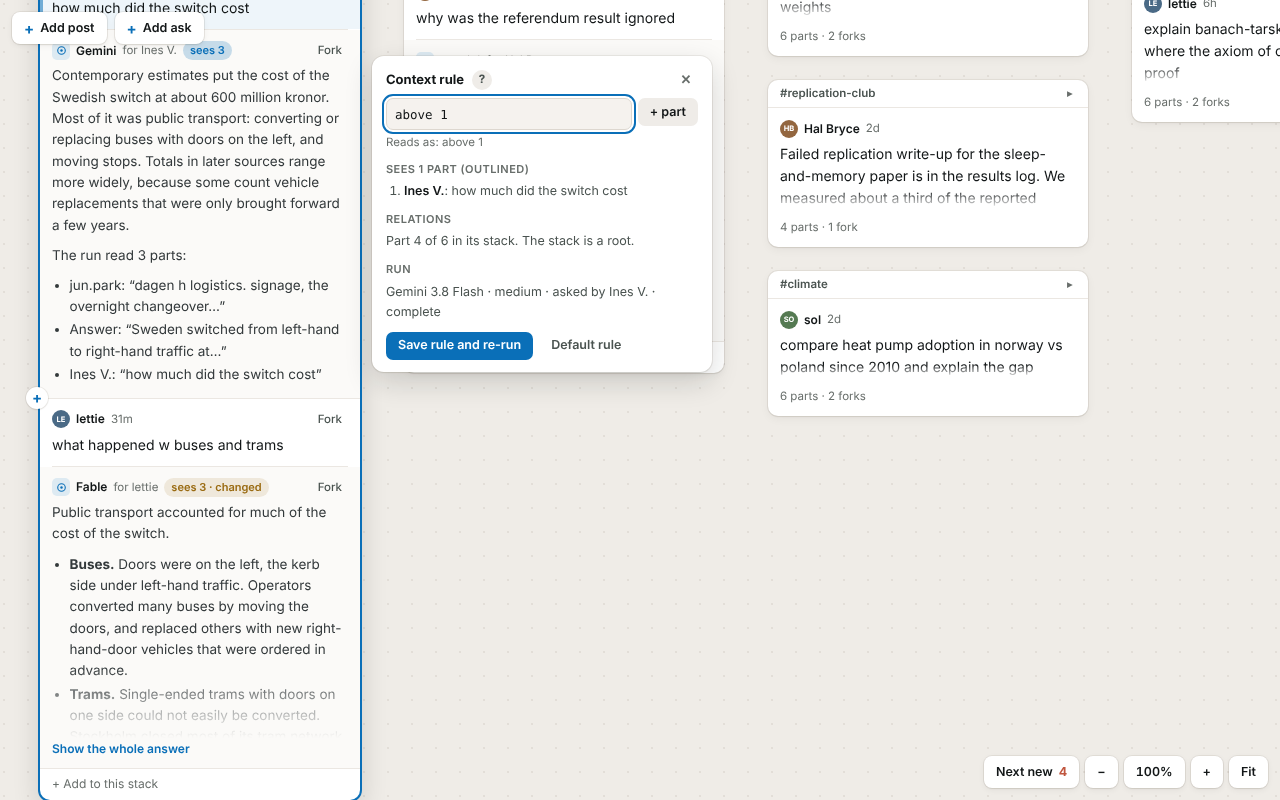
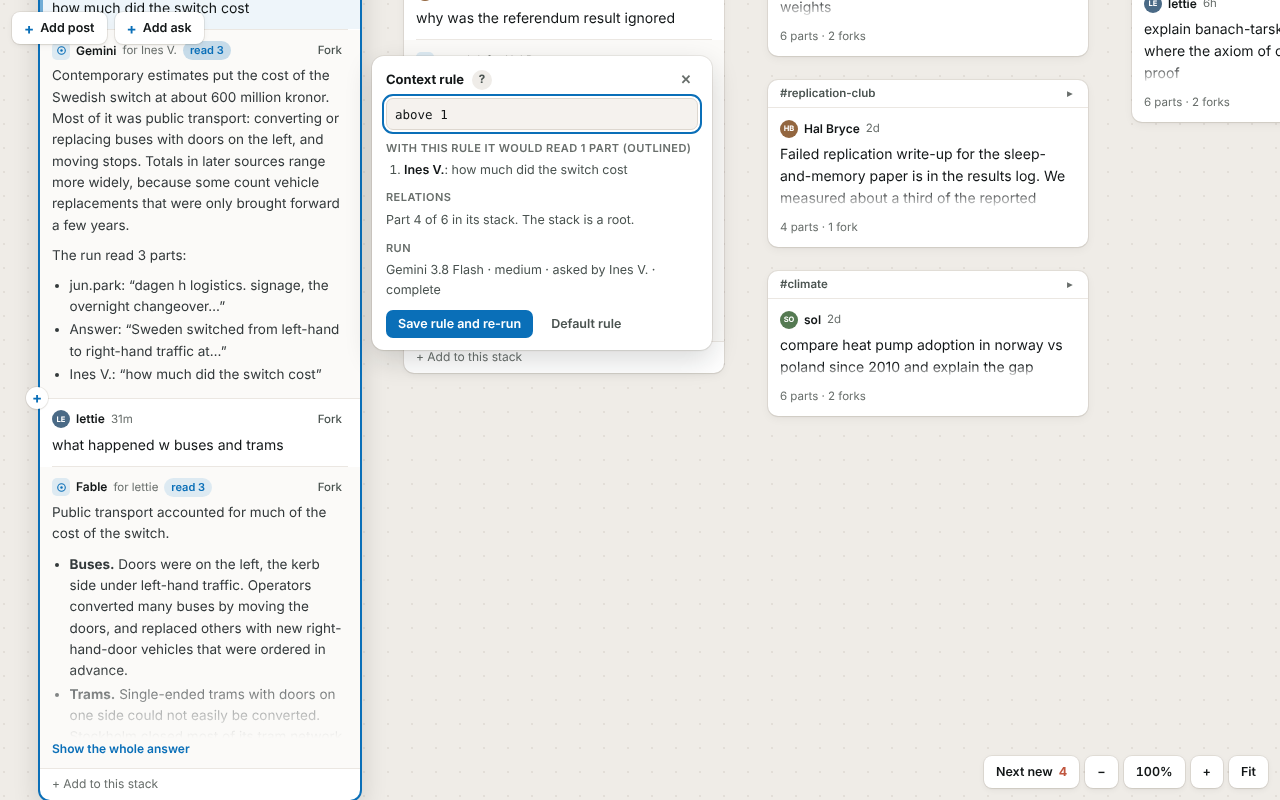
Cut staleness from the stacks variant and shrink the rule grammar
Following the parent session's steer, to stay distinct from direction C: context is frozen when a part runs, Re-run is a plain action, and rev, revs and the changed mark are removed. The rule grammar is now above, above N, trunk, fork, none and +. Hovering a fork highlights its anchor part or passage. The concept doc and advisor log record the change; screenshots are refreshed.

Claude-Session: https://claude.ai/code/session_01ScST25R3JDgY36Gb2pN7J7

Changed region(s): [[0.2812, 0.0938, 0.5625, 0.4688], [0.125, 0.5938, 0.2188, 0.625]]

diff --git a/docs/mockups/canvas-stacks.html b/docs/mockups/canvas-stacks.html
@@ -7,10 +7,10 @@ are canned and runs are simulated with timers. The only external request is the 
 
 Data model (in memory; a reload starts over)
 - Part { id, st (stack), key (number; an insert takes the midpoint of its neighbours), by {k:'p', u} | {k:'m', model},
-  text (HTML), at, rev, revs (earlier texts after a re-run), run? }.
-  run (model parts only) { by (the person who asked), model, effort, see (context rule), ctx ([[id, rev]] frozen
-  when the run started), status queued|running|complete|stopped, step, src }.
-- Stack { id, ch (channel), fork? { part, rev, block?, quote? }, x?, y?, inline? }.
+  text (HTML), at, run? }.
+  run (model parts only) { by (the person who asked), model, effort, see (context rule), ctx (ids of the parts it
+  read, frozen when the run started), status queued|running|complete|stopped, step, src }.
+- Stack { id, ch (channel), fork? { part, block?, quote? }, x?, y?, inline? }.
   A stack with x,y is placed by itself (a root, or a fork opened as its own thread); otherwise it is placed in a lane
   beside its anchor part, or drawn inside its parent stack when inline is true.
 - View state, per viewer, not content: collapsed units, expanded answers, selection, zoom, seen parts.
@@ -107,8 +107,6 @@ button { cursor: pointer; background: none; border: 0; padding: 0; }
 .part + .part, .seam + .part, .part + .seam { }
 .part.m { background: var(--card-m); }
 .part.ctx { box-shadow: inset 3px 0 0 var(--ctx); background: color-mix(in srgb, var(--accent) 7%, var(--card)); }
-.part.picking { cursor: copy; }
-.part.picking:hover { box-shadow: inset 0 0 0 2px var(--accent); }
 .ph { display: flex; align-items: center; gap: 6px; font-size: 11.5px; color: var(--t-faint); margin-bottom: 4px; min-height: 20px; flex-wrap: wrap; }
 .ph b { color: var(--t-heading); font-weight: 600; font-size: 12px; }
 .ph .late { color: var(--warn); }
@@ -141,8 +139,6 @@ button { cursor: pointer; background: none; border: 0; padding: 0; }
 .pending .bar i { display: block; height: 100%; background: var(--accent); transition: width .4s; }
 .stalebox { margin-top: 6px; font-size: 12px; color: var(--warn); display: flex; gap: 8px; align-items: center; flex-wrap: wrap; }
 .stalebox button { font-weight: 600; color: var(--accent); }
-.revs { font-size: 11.5px; color: var(--t-faint); margin-top: 4px; }
-.revs button { color: var(--accent); font-weight: 500; }
 
 /* seams: the gap between two parts. Desktop: a "+" in the left gutter of the hovered gap. Touch, or a selected stack:
    every gap shows its "+" (44px target). Inside an answer, gaps between blocks are fainter and make an inline fork. */
@@ -184,6 +180,8 @@ button { cursor: pointer; background: none; border: 0; padding: 0; }
 .ifh button { margin-left: 0; }
 #bfork { position: fixed; z-index: 24; height: 24px; padding: 0 8px 0 6px; border-radius: 12px; background: var(--card); color: var(--accent); font-size: 11.5px; font-weight: 600; box-shadow: var(--shadow), 0 2px 8px rgba(0,0,0,.08); display: inline-flex; align-items: center; gap: 4px; }
 #bfork:hover { background: var(--accent); color: var(--on-accent); }
+.part.anchor-hot { box-shadow: inset 3px 0 0 var(--accent); }
+.prose > .anchor-hot { background: var(--accent-soft); border-radius: 3px; box-shadow: 0 0 0 3px var(--accent-soft); }
 .prose > .bhov { box-shadow: -8px 0 0 -5px var(--accent); }
 @media (pointer: coarse) { #bfork { height: 34px; padding: 0 12px; border-radius: 17px; } }
 .sbody > .draft:first-child { border-top: 0; border-radius: 10px 10px 0 0; }
@@ -276,7 +274,7 @@ const reduced = () => matchMedia('(prefers-reduced-motion: reduce)').matches;
 /* ---- content: parts and stacks ---- */
 const P = {}, S = {};
 let seq = 1000;
-for (const p of D.parts) { p.key = +p.key.slice(1); p.rev = 1; p.revs = []; if (p.run) p.run.see = 'above + trunk'; P[p.id] = p; }
+for (const p of D.parts) { p.key = +p.key.slice(1); if (p.run) p.run.see = 'above + trunk'; P[p.id] = p; }
 for (const s of D.stacks) S[s.id] = s;
 const byKey = (a, b) => a.key - b.key;
 const partsOf = sid => Object.values(P).filter(p => p.st === sid).sort(byKey);
@@ -299,7 +297,7 @@ const above = (p, n) => { const a = partsOf(p.st).filter(q => q.key < p.key); re
 const trunk = s => { if (!s.fork) return []; const fp = P[s.fork.part]; return fp ? [...positional(fp), fp] : []; };
 const positional = p => [...trunk(S[p.st]), ...above(p)];
 function parseRule(rule) {
-  const toks = String(rule).trim().split(/\s*([+-])\s*/); const out = []; let sign = '+';
+  const toks = String(rule).trim().split(/\s*(\+)\s*/); const out = []; let sign = '+';
   for (let i = 0; i < toks.length; i++) {
     const t = toks[i].trim();
     if (i % 2 === 1) { sign = t; continue; }
@@ -307,8 +305,7 @@ function parseRule(rule) {
     let m;
     if ((m = t.match(/^above(?:\s+(\d+))?$/))) out.push([sign, 'above', m[1] ? +m[1] : 0]);
     else if (t === 'trunk' || t === 'fork' || t === 'none') out.push([sign, t]);
-    else if ((m = t.match(/^#(p\d+)$/))) { if (!P[m[1]]) return { err: `No part ${t}.` }; out.push([sign, 'ref', m[1]]); }
-    else return { err: `Unknown term "${t}". Use above, above N, trunk, fork, #id or none.` };
+    else return { err: `Unknown term "${t}". Use above, above N, trunk, fork or none, joined with +.` };
   }
   return { terms: out };
 }
@@ -316,7 +313,7 @@ function resolve(p, rule = p.run?.see || 'above + trunk') {
   const r = parseRule(rule); if (r.err) return { err: r.err, parts: [] };
   const set = new Map(), s = S[p.st];
   for (const [sign, k, a] of r.terms) {
-    const got = k === 'above' ? above(p, a) : k === 'trunk' ? trunk(s) : k === 'fork' ? (s.fork && P[s.fork.part] ? [P[s.fork.part]] : []) : k === 'ref' ? [P[a]] : [];
+    const got = k === 'above' ? above(p, a) : k === 'trunk' ? trunk(s) : k === 'fork' ? (s.fork && P[s.fork.part] ? [P[s.fork.part]] : []) : [];
     for (const q of got) if (q.id !== p.id) { if (sign === '+') set.set(q.id, q); else set.delete(q.id); }
   }
   /* reading order: trunk first, then this stack */
@@ -324,19 +321,12 @@ function resolve(p, rule = p.run?.see || 'above + trunk') {
   return { parts: [...set.values()].sort((a, b) => rank(a.id) - rank(b.id)) };
 }
 const blockText = (p, i) => { const t = document.createElement('div'); t.innerHTML = p.text; return strip(t.children[i]?.innerHTML || ''); };
-const ctxOf = p => resolve(p).parts.map(q => [q.id, q.rev]);
+const ctxOf = p => resolve(p).parts.map(q => q.id);
 const sameCtx = (a, b) => a.length === b.length && a.every(([id, r], i) => b[i][0] === id && b[i][1] === r);
 for (const p of Object.values(P)) if (p.run) p.run.ctx = ctxOf(p);
-function staleInfo(p) {
-  if (!p.run || p.run.status !== 'complete') return null;
-  const now = ctxOf(p); if (sameCtx(now, p.run.ctx)) return null;
-  const was = new Map(p.run.ctx), is = new Map(now);
-  const added = now.filter(([id]) => !was.has(id)).length, removed = p.run.ctx.filter(([id]) => !is.has(id)).length, changed = now.filter(([id, r]) => was.has(id) && was.get(id) !== r).length;
-  return [added && `+${added} part${added > 1 ? 's' : ''}`, removed && `−${removed}`, changed && `${changed} re-run`].filter(Boolean).join(', ');
-}
 
 /* ---- view state (per viewer) ---- */
-const V = { openIn: new Set(), legend: false, x: 0, y: 0, z: 1, sel: null, collapsed: new Set(), full: new Set(), seen: new Set(), pop: null, picking: false, draft: null, hot: null };
+const V = { openIn: new Set(), legend: false, x: 0, y: 0, z: 1, sel: null, collapsed: new Set(), full: new Set(), seen: new Set(), pop: null, draft: null, hot: null };
 const NEWSINCE = '2026-11-16T09:40:00Z';
 const isNew = p => p.at >= NEWSINCE && !(p.by.k === 'p' && p.by.u === ME) && !V.seen.has(p.id);
 const unitStacks = root => { const out = []; const walk = s => { out.push(s); for (const p of partsOf(s.id)) for (const f of forksOf(p.id)) if (f.x == null) walk(f); }; walk(root); return out; };
@@ -350,9 +340,9 @@ function head(p, s) {
   const nw = isNew(p) ? '<span class="dot" title="New"></span>' : '';
   const acts = `<span class="acts"><button class="ab" data-a="fork" data-id="${p.id}" title="Start a stack beside this part that sees everything up to here">Fork</button></span>`;
   if (!isModel(p)) return `<div class="ph">${nw}${av(p.by.u)}<b>${esc(NAMES[p.by.u] || p.by.u)}</b><span>${rel(p.at)}</span>${late}${acts}</div>`;
-  const r = p.run, st = staleInfo(p), n = r.status === 'complete' ? r.ctx.length : ctxOf(p).length;
+  const r = p.run, n = r.status === 'complete' ? r.ctx.length : ctxOf(p).length;
   return `<div class="ph">${nw}${MARK}<b title="${esc(r.model)}">${esc(SHORT[r.model] || r.model)}</b><span>for ${esc(NAMES[r.by] || r.by)}</span>
-    ${st || r.see !== 'above + trunk' || V.sel === rootLane(s).id || V.pop === p.id ? `<button class="chip${st ? ' stale' : ''}" data-a="pop" data-id="${p.id}" title="${st ? 'Context changed since this ran. ' : ''}Context rule: ${esc(r.see)}">${r.see !== 'above + trunk' ? 'ƒ ' : ''}sees ${n}${st ? ' · changed' : ''}</button>` : ''}${acts}</div>`;
+    ${r.see !== 'above + trunk' || V.sel === rootLane(s).id || V.pop === p.id ? `<button class="chip" data-a="pop" data-id="${p.id}" title="Context rule: ${esc(r.see)}">${r.see !== 'above + trunk' ? 'ƒ ' : ''}read ${n}</button>` : ''}${acts}</div>`;
 }
 function proseHTML(p, s, selected) {
   if (isModel(p) && p.run.status !== 'complete') {
@@ -377,7 +367,6 @@ function proseHTML(p, s, selected) {
   if (big) out += `<button class="more" data-a="full" data-id="${p.id}">Show the whole answer${inl.length ? ` · ${inl.length} inline fork${inl.length > 1 ? 's' : ''}` : ''}</button>`;
   else if (long) out += `<button class="more" data-a="full" data-id="${p.id}">Show less</button>`;
   for (const f of inl.filter(f => f.fork.block == null)) out += ifork(f, selected);
-  if (p.revs.length) out += `<div class="revs">Re-run ${p.revs.length}× · <button data-a="oldrev" data-id="${p.id}">${V.oldrev === p.id ? 'Hide' : 'Show'} the earlier answer</button></div>${V.oldrev === p.id ? `<div class="prose" style="opacity:.7;margin-top:6px">${p.revs[p.revs.length - 1]}</div>` : ''}`;
   const st = null;
   if (st) out += `<div class="stalebox">Context changed since this ran (${esc(st)}).${p.run.by === ME ? `<button data-a="rerun" data-id="${p.id}">Re-run</button>` : `<span>${esc(NAMES[p.run.by] || p.run.by)} can re-run it.</span>`}</div>`;
   return out;
@@ -386,7 +375,7 @@ function partHTML(p, s, selected, first = false) {
   const ctx = V.pop && V.popCtx?.has(p.id) ? ' ctx' : '';
   const isRoot = !s.fork || s.x != null, n = first && isRoot ? unitNew(s) : 0;
   const pre = first ? `<small>${isRoot ? `#${esc(CH[s.ch] || s.ch)}${n ? ` · <b>${n} new</b>` : ''}` : 'fork'}</small>` : '';
-  return `<div class="part${first ? ' first' : ''}${isModel(p) ? ' m' : ''}${ctx}${V.picking ? ' picking' : ''}${V.fresh?.has(p.id) ? ' fresh' : ''}" data-part="${p.id}" data-fl="p:${p.id}">
+  return `<div class="part${first ? ' first' : ''}${isModel(p) ? ' m' : ''}${ctx}${V.fresh?.has(p.id) ? ' fresh' : ''}" data-part="${p.id}" data-fl="p:${p.id}">
     <span class="hl" aria-hidden="true">${pre}${esc(clip(strip(p.text), 90))}</span>${head(p, s)}${proseHTML(p, s, selected)}</div>`;
 }
 /* a question and the answer it prompted are read as one: no seam between them (Fork here covers that position) */
@@ -420,7 +409,7 @@ function stackHTML(s) {
   if (isRoot) { const n = unitNew(s);
     h += `<div class="sh" data-a="grip" data-id="${s.id}"><span class="ov" aria-hidden="true">#${esc(CH[s.ch] || s.ch)}${n ? ` · <b>${n} new</b>` : ''}</span><span class="ch">#${esc(CH[s.ch] || s.ch)}</span>${s.fork ? '<span>· opened from a fork</span>' : ''}<span class="grow"></span>${n ? `<span class="newc">${n} new</span>` : ''}
       <button class="ib" data-a="collapse" data-id="${s.id}" aria-label="${collapsed ? 'Expand' : 'Collapse'}" title="${collapsed ? 'Expand' : 'Collapse'}">${collapsed ? '▸' : '▾'}</button></div>`; }
-  if (s.fork) { const fp = P[s.fork.part]; if (fp) { const bt = s.fork.block != null ? blockText(fp, s.fork.block) : ''; h += `<div class="fq"><i>Fork of</i> ${s.fork.quote ? `“${esc(clip(s.fork.quote, 120))}”` : bt ? `“${esc(clip(bt, 110))}”` : esc(words(fp, 9))}${fp.rev !== s.fork.rev ? ' <span class="old">· forked from an earlier version</span>' : ''}</div>`; } }
+  if (s.fork) { const fp = P[s.fork.part]; if (fp) { const bt = s.fork.block != null ? blockText(fp, s.fork.block) : ''; h += `<div class="fq"><i>Fork of</i> ${s.fork.quote ? `“${esc(clip(s.fork.quote, 120))}”` : bt ? `“${esc(clip(bt, 110))}”` : esc(words(fp, 9))}</div>`; } }
   if (collapsed) {
     const u = unitStacks(s), np = u.reduce((n, x) => n + partsOf(x.id).length, 0);
     h += ps[0] ? partHTML(ps[0], s, false, true).replace('class="prose', 'class="prose clamp" style="max-height:66px') : '';
@@ -610,8 +599,8 @@ function commitDraft(ask) {
   if (!texts.length) { document.querySelector('.draft textarea')?.focus(); return; }
   let [a, b] = keyAfter(d.st, d.after); const step = (b - a) / (texts.length + (ask ? 2 : 1));
   const made = []; let k = a;
-  for (const t of texts) { k += step; const p = { id: 'p' + (++seq), st: d.st, key: k, by: { k: 'p', u: ME }, text: t.split(/\n{2,}/).map(x => `<p>${esc(x).replace(/\n/g, '<br>')}</p>`).join(''), at: new Date(NOW + (seq - 1000) * 1000).toISOString(), rev: 1, revs: [] }; P[p.id] = p; made.push(p.id); V.seen.add(p.id); }
-  if (ask) { k += step; const m = { id: 'p' + (++seq), st: d.st, key: k, by: { k: 'm', model: 'Gemini 3.8 Flash' }, text: '', at: new Date(NOW + (seq - 1000) * 1000).toISOString(), rev: 1, revs: [],
+  for (const t of texts) { k += step; const p = { id: 'p' + (++seq), st: d.st, key: k, by: { k: 'p', u: ME }, text: t.split(/\n{2,}/).map(x => `<p>${esc(x).replace(/\n/g, '<br>')}</p>`).join(''), at: new Date(NOW + (seq - 1000) * 1000).toISOString() }; P[p.id] = p; made.push(p.id); V.seen.add(p.id); }
+  if (ask) { k += step; const m = { id: 'p' + (++seq), st: d.st, key: k, by: { k: 'm', model: 'Gemini 3.8 Flash' }, text: '', at: new Date(NOW + (seq - 1000) * 1000).toISOString(),
     run: { by: ME, model: 'Gemini 3.8 Flash', effort: 'medium', see: d.see || 'above + trunk', ctx: [], status: 'queued', step: 0, src: [] } }; P[m.id] = m; made.push(m.id); V.seen.add(m.id); startRun(m); }
   V.fresh = new Set(made); V.draft = null; render();
 }
@@ -640,29 +629,28 @@ function canned(p, q) {
 }
 function rerun(p) {
   if (!p.run || p.run.by !== ME) return;
-  p.revs.push(p.text); p.rev++; startRun(p); render();
+  startRun(p); render();
 }
 
 /* ---- popover: the model part's context rule and relations ---- */
-function openPop(pid) { V.popPanned = false; V.pop = pid; V.picking = false; V.popRule = P[pid].run.see; computePopCtx(); render(); setTimeout(() => $('#pop input')?.focus({ preventScroll: true })); }
-function closePop() { V.pop = null; V.picking = false; V.popCtx = null; $('#pop').hidden = true; }
-function computePopCtx() { const p = P[V.pop]; const r = resolve(p, V.popRule); V.popCtx = new Set(r.parts.map(x => x.id)); V.popErr = r.err; }
-function readsAs(rule) { return esc(rule).replace(/#(p\d+)/g, (m, id) => P[id] ? `“${esc(words(P[id], 4))}”` : m); }
+function openPop(pid) { V.popPanned = false; V.pop = pid; V.popRule = P[pid].run.see; computePopCtx(); render(); setTimeout(() => $('#pop input')?.focus({ preventScroll: true })); }
+function closePop() { V.pop = null; V.popCtx = null; $('#pop').hidden = true; }
+function computePopCtx() { const p = P[V.pop]; const editing = V.popRule.trim() !== p.run.see || p.run.status !== 'complete'; const r = editing ? resolve(p, V.popRule) : { parts: p.run.ctx.map(id => P[id]).filter(Boolean) }; V.popCtx = new Set(r.parts.map(x => x.id)); V.popErr = r.err; }
 function renderPop() {
   const el = $('#pop'); if (!V.pop || !P[V.pop]) { el.hidden = true; return; }
-  const p = P[V.pop], s = S[p.st], r = resolve(p, V.popRule), list = partsOf(s.id), idx = list.findIndex(x => x.id === p.id) + 1;
-  const fp = s.fork && P[s.fork.part], fk = forksOf(p.id), st = staleInfo(p);
+  const p = P[V.pop], s = S[p.st], editing = V.popRule.trim() !== p.run.see, r = editing || p.run.status !== 'complete' ? resolve(p, V.popRule) : { parts: p.run.ctx.map(id => P[id]).filter(Boolean) }, list = partsOf(s.id), idx = list.findIndex(x => x.id === p.id) + 1;
+  const fp = s.fork && P[s.fork.part], fk = forksOf(p.id);
   const ctxList = r.parts.map(x => `<li>${isModel(x) ? `<b>${esc(x.run.model)}</b>` : `<b>${esc(NAMES[x.by.u] || x.by.u)}</b>`}: ${esc(clip(strip(x.text), 70))}${s.fork && x.id === s.fork.part && s.fork.block != null ? ' <i>(passage marked)</i>' : ''}</li>`).join('');
   const was = document.activeElement?.id === 'rule-in' ? [document.activeElement.selectionStart] : null;
   const mine = p.run.by === ME;
   el.innerHTML = `<h3>Context rule<button class="q" data-a="legend" aria-expanded="${V.legend}" title="What the terms mean">?</button><button class="x" data-a="popclose" aria-label="Close">✕</button></h3>
-    <div class="rule"><input id="rule-in" value="${esc(V.popRule)}" spellcheck="false" aria-label="Context rule"${mine ? '' : ' readonly'}>${mine ? `<button class="btn" data-a="pick" title="Click a part on the canvas to add it">${V.picking ? 'Click a part…' : '+ part'}</button>` : ''}</div>
-    ${V.popErr ? `<div class="err">${esc(V.popErr)}</div>` : `<div class="reads">${mine ? 'Reads as' : `Set by ${esc(NAMES[p.run.by] || p.run.by)}, who asked. Reads as`}: ${readsAs(V.popRule)}</div>`}
-    <div class="terms"${V.legend ? '' : ' hidden'}><code>above</code> <code>above 2</code> parts above in this stack · <code>trunk</code> the fork point and what it sees · <code>fork</code> the fork point only · <code>#id</code> one part · <code>none</code> · join with <code>+</code> and <code>-</code></div>
-    <div class="lbl">Sees ${r.parts.length} part${r.parts.length === 1 ? '' : 's'} (outlined)</div>${ctxList ? `<ol>${ctxList}</ol>` : '<div class="reads">Nothing.</div>'}
+    <div class="rule"><input id="rule-in" value="${esc(V.popRule)}" spellcheck="false" aria-label="Context rule"${mine ? '' : ' readonly'}></div>
+    ${V.popErr ? `<div class="err">${esc(V.popErr)}</div>` : (mine ? '' : `<div class="reads">Set by ${esc(NAMES[p.run.by] || p.run.by)}, who asked.</div>`)}
+    <div class="terms"${V.legend ? '' : ' hidden'}><code>above</code> <code>above 2</code> parts above in this stack · <code>trunk</code> the fork point and what it sees · <code>fork</code> the fork point only · <code>none</code> · join with <code>+</code>, as in <code>above 2 + fork</code></div>
+    <div class="lbl">${editing ? 'With this rule it would read' : p.run.status === 'complete' ? 'Read when it ran' : 'Reads'} ${r.parts.length} part${r.parts.length === 1 ? '' : 's'} (outlined)</div>${ctxList ? `<ol>${ctxList}</ol>` : '<div class="reads">Nothing.</div>'}
     <div class="lbl">Relations</div><div class="rel">Part ${idx} of ${list.length} in its stack.${fp ? ` The stack is a fork of “${esc(words(fp, 6))}”${s.fork.block != null ? ', at a passage' : ''}. <button data-a="goto" data-id="${fp.id}">Show</button>` : ' The stack is a root.'}${fk.length ? ` ${fk.length} fork${fk.length > 1 ? 's' : ''} start${fk.length > 1 ? '' : 's'} here.` : ''}</div>
-    <div class="lbl">Run</div><div class="rel">${esc(p.run.model)} · ${esc(p.run.effort)} · asked by ${esc(NAMES[p.run.by] || p.run.by)} · ${p.run.status}${st ? `<br><span style="color:var(--warn)">Context changed since it ran: ${esc(st)}.</span>` : ''}</div>
-    ${mine && p.run.status === 'complete' && (st || V.popRule.trim() !== p.run.see) ? `<div class="row"><button class="btn pri" data-a="rerun" data-id="${p.id}"${V.popErr ? ' disabled' : ''}>${V.popRule.trim() !== p.run.see ? 'Save rule and re-run' : 'Re-run'}</button>${V.popRule.trim() !== 'above + trunk' ? '<button class="btn ghost" data-a="ruledefault">Default rule</button>' : ''}</div>` : ''}`;
+    <div class="lbl">Run</div><div class="rel">${esc(p.run.model)} · ${esc(p.run.effort)} · asked by ${esc(NAMES[p.run.by] || p.run.by)} · ${p.run.status}</div>
+    ${mine && p.run.status === 'complete' ? `<div class="row"><button class="btn pri" data-a="rerun" data-id="${p.id}"${V.popErr ? ' disabled' : ''}>${V.popRule.trim() !== p.run.see ? 'Save rule and re-run' : 'Re-run'}</button>${V.popRule.trim() !== 'above + trunk' ? '<button class="btn ghost" data-a="ruledefault">Default rule</button>' : ''}</div>` : ''}`;
   el.hidden = false;
   const pe = document.querySelector(`[data-part="${p.id}"]`);
   if (pe && innerWidth <= 640 && !V.popPanned) { V.popPanned = true; const b = pe.getBoundingClientRect(); V.y += 64 - b.top; applyView(); drawLinks(); }
@@ -702,7 +690,7 @@ $('#add-post').onclick = () => newRoot('post');
 $('#add-ask').onclick = () => newRoot('ask');
 function newFork(pid, { block = null, quote = null, inline = false } = {}) {
   const fp = P[pid], id = 's' + (++seq);
-  S[id] = { id, ch: S[fp.st].ch, fork: { part: pid, rev: fp.rev, ...(block != null ? { block } : {}), ...(quote ? { quote } : {}) }, ...(inline ? { inline: true } : {}) };
+  S[id] = { id, ch: S[fp.st].ch, fork: { part: pid, ...(block != null ? { block } : {}), ...(quote ? { quote } : {}) }, ...(inline ? { inline: true } : {}) };
   const r = rootOf(S[id]); V.collapsed.delete(r.id);
   V.draft = { st: id, after: '', mode: 'ask', texts: [''] }; V.sel = inline ? rootLane(S[id]).id : id; closePop(); if (inline) V.openIn.add(id); hideHint();
   render({ focus: '.draft textarea' });
@@ -712,7 +700,6 @@ document.addEventListener('click', e => {
   if (vp.dataset.justPanned) { e.preventDefault(); e.stopPropagation(); return; }
   if (!e.target.closest('#selfork')) $('#selfork')?.remove();
   const partEl = e.target.closest('[data-part]');
-  if (V.picking && partEl && !e.target.closest('#pop')) { const id = partEl.dataset.part; if (id !== V.pop) { V.popRule = (V.popRule.trim() ? V.popRule.trim() + ' + ' : '') + '#' + id; V.picking = false; computePopCtx(); render({ noAnim: true }); } return; }
   const t = e.target.closest('[data-a]'), a = t?.dataset.a, d = t?.dataset || {};
   if (a === 'seam') { e.stopPropagation(); const st = S[d.st]; V.collapsed.delete(rootOf(st).id); openDraft(d.st, d.after, P[d.after] && isModel(P[d.after]) ? 'ask' : 'post'); return; }
   if (a === 'bfork') { $('#bfork')?.remove(); newFork(d.id, { block: +d.b, inline: true }); return; }
@@ -728,7 +715,6 @@ document.addEventListener('click', e => {
   if (a === 'oldrev') { V.oldrev = V.oldrev === d.id ? null : d.id; render(); return; }
   if (a === 'pop') { V.pop === d.id ? (closePop(), render()) : openPop(d.id); return; }
   if (a === 'popclose') { closePop(); render(); return; }
-  if (a === 'pick') { V.picking = !V.picking; render({ noAnim: true }); return; }
   if (a === 'legend') { V.legend = !V.legend; renderPop(); return; }
   if (a === 'ruleapply') { const p = P[V.pop]; p.run.see = V.popRule.trim(); render(); toast('Rule saved. The answer is marked until it is re-run.'); return; }
   if (a === 'ruledefault') { V.popRule = 'above + trunk'; P[V.pop].run.see = V.popRule; computePopCtx(); render(); return; }
@@ -749,7 +735,12 @@ vp.addEventListener('dblclick', e => {
   S[id] = { id, ch: 'public', fork: null, x, y };
   V.draft = { st: id, after: '', mode: 'post', texts: [''] }; V.sel = id; render({ noAnim: true, focus: '.draft textarea' });
 });
-document.addEventListener('mouseover', e => { const s = e.target.closest('.stack'); const id = s?.dataset.stack || null; if (id !== V.hot) { V.hot = id; drawLinks(); } });
+/* hovering a fork marks where it starts: the anchor part, or the anchor block, in the parent */
+document.addEventListener('mouseover', e => { const s = e.target.closest('.stack, .ifork'); const id = s?.dataset.stack || null; if (id === V.hot) return; V.hot = id; drawLinks();
+  document.querySelectorAll('.anchor-hot').forEach(x => x.classList.remove('anchor-hot'));
+  const f = id && S[id]; if (!f?.fork) return; const pe = document.querySelector(`[data-part="${f.fork.part}"]`); if (!pe) return;
+  if (f.fork.block != null) { const pr = pe.querySelector('.prose[data-p]'), kids = pr ? [...pr.children].filter(c => !c.classList.contains('ifork')) : []; kids[f.fork.block]?.classList.add('anchor-hot'); }
+  else pe.classList.add('anchor-hot'); });
 
 /* keys: Cmd/Ctrl+Enter asks, Shift+Cmd/Ctrl+Enter posts; Escape closes the innermost thing. In a draft, a blank
    line followed by Enter on an empty line starts the next part. */
@@ -760,7 +751,7 @@ document.addEventListener('keydown', e => {
     e.preventDefault(); const i = +ta.dataset.di; V.draft.texts[i] = ta.value.replace(/\n+$/, ''); V.draft.texts.splice(i + 1, 0, ''); render({ focus: `.draft textarea[data-di="${i + 1}"]` }); return; }
   if (ta && e.key === 'Backspace' && !ta.value && V.draft.texts.length > 1) { e.preventDefault(); const i = +ta.dataset.di; V.draft.texts.splice(i, 1); render({ focus: `.draft textarea[data-di="${Math.max(0, i - 1)}"]` }); return; }
   if (e.target.id === 'rule-in' && e.key === 'Enter') { e.preventDefault(); const p = P[V.pop]; if (!V.popErr && p.run.by === ME && V.popRule.trim() !== p.run.see) { p.run.see = V.popRule.trim(); rerun(p); } return; }
-  if (e.key === 'Escape') { if (V.picking) { V.picking = false; render({ noAnim: true }); return; } if (V.pop) { closePop(); render({ noAnim: true }); return; } if ($('#selfork')) { $('#selfork').remove(); return; } if (V.draft) { cancelDraft(); return; } if (V.sel) { V.sel = null; render({ noAnim: true }); } }
+  if (e.key === 'Escape') { if (V.pop) { closePop(); render({ noAnim: true }); return; } if ($('#selfork')) { $('#selfork').remove(); return; } if (V.draft) { cancelDraft(); return; } if (V.sel) { V.sel = null; render({ noAnim: true }); } }
 });
 
 /* selecting text in an answer offers a fork that stores the passage (block and quote) */

diff --git a/docs/canvas/stacks-concept.md b/docs/canvas/stacks-concept.md
@@ -16,9 +16,9 @@ rule of its own. Context binds late, when a run starts, and the resolved context
 - `id`, `stack`, `key`. The key is a fractional index: an insert takes a key between its neighbours, so nothing is
   renumbered.
 - `author`: `{ person }` or `{ model }`.
-- `text`, `at`, `rev`, `revs`. A re-run bumps `rev`, and earlier texts stay readable in `revs`.
+- `text`, `at`.
 - `run`, on model parts only: `{ by, model, effort, see, ctx, status, src }`. `by` is the person who asked, `see` is
-  the context rule, and `ctx` is the list of `[partId, rev]` pairs the rule resolved to when the run started.
+  the context rule, and `ctx` lists the parts the rule resolved to when the run started. That context is frozen.
 
 An ask is a person part with a model part directly under it whose `run.by` is that person. A post is a person part
 with nothing produced under it. The editor has two buttons, Post and Ask; nothing else distinguishes them.
@@ -26,7 +26,7 @@ with nothing produced under it. The editor has two buttons, Post and Ask; nothin
 **Stack**: a vertical column of parts.
 
 - `id`, `canvas`.
-- `fork?`: `{ part, rev, block?, quote? }`, the part, block or quoted passage the stack starts from.
+- `fork?`: `{ part, block?, quote? }`, the part, block or quoted passage the stack starts from.
 - `x?`, `y?`: set only on stacks placed by themselves (roots, and forks opened as their own thread).
 - `inline?`: draw this fork inside its parent, at its anchor.
 
@@ -42,19 +42,19 @@ A model part sees what its `see` rule resolves to. The default is `above + trunk
 - `trunk`: for a fork, the fork part and everything that part sees, recursively. A block anchor includes the whole
   part, with the block marked.
 - `fork`: the fork part only.
-- `#id`: one part. You enter it by clicking the part; it is shown as the part's first words.
-- `none`; `+` and `-` add and remove.
+- `none`; terms join with `+`.
 
 ```
-see: fork                  a Look up: only the phrase's part
-see: above 1               only the question directly above
-see: above + trunk - #p41  everything positional except one comment
+see: fork             a Look up: only the phrase's part
+see: above 1          only the question directly above
+see: above 2 + fork   the two parts above, plus the fork point
 ```
 
-The rule selects positions: it neither computes values (C) nor sends messages (A). The "sees N" chip opens it, outlines
-what it resolves to as you type, and lists relations. Only the asker edits it ("Save rule and re-run"). When the
-resolution differs from `run.ctx`, the chip turns amber. A re-run writes a new rev and keeps the old one; nothing
-re-runs automatically.
+The rule selects positions: it neither computes values (C) nor sends messages (A). The "read N" chip opens it. It
+outlines the parts the answer read when it ran, or, while you edit the rule, the parts it would read. It also lists
+relations. Only the asker edits the rule; Re-run is a plain action that replaces the answer. There is no staleness
+tracking: an insert above an answer does not mark it, and the "inserted" label on the new part tells readers that
+the answers below were written without it.
 
 ## Layout and interaction
 
@@ -90,19 +90,19 @@ re-runs automatically.
 | Branch here, ask about a passage | fork with `block` and `quote` |
 | Branch beside | fork at the parent's model part |
 | Look up | fork whose model part has `see: fork` |
-| comment on a node | person part after the answer. It is context for later asks below it; `- #id` excludes it |
+| comment on a node | person part after the answer; context for later asks below it unless their rule is `above N` |
 | run record | `run` on the model part |
 | save, counts | per-viewer state; counts as today |
 | Open as its own thread | give the fork its own x, y; `fork` stays, so its context is unchanged |
 
 ## Open questions
 
-1. An insert above someone else's answer changes that answer's context. Should channels be able to limit this, or is
-   the amber mark enough?
+1. An insert above someone else's answer is not part of what that answer read. Is the "inserted" label enough for
+   readers, or should channels be able to limit inserts?
 2. Two inserts into one gap both survive (fractional keys), but how the second author sees the first before sending
    is open.
-3. Excluding comments takes one `#id` each. If that is common, add an "exclude" action that writes the refs, rather
-   than more grammar.
+3. With no `-` or `#id`, a rule cannot skip one comment in the middle. If that matters, an "exclude" action on a part
+   is a better answer than a larger grammar.
 4. `x`, `y` and `inline` are shared, so one person's drag rearranges everyone's canvas.
 
 ## Advisor log
@@ -110,26 +110,25 @@ re-runs automatically.
 The advisor was a separate subagent, run over three rounds.
 
 **Round 1, concept.**
-- *Criticism:* Run was a hidden fourth primitive. Section parts would orphan forks on a re-run and lose the quoted
-  passage. Stale marks would cascade. Pushing stacks aside would overwrite people's arrangement.
-- *Changed:* one run is one part, and fork anchors carry `rev`, `block` and `quote`. Stale marks are quiet and only the
-  asker re-runs. Displacement is derived. Canvas and collapse are not content, and the grammar is cut to seven terms.
+- *Criticism:* Run was a hidden fourth primitive, and splitting answers into sections would orphan forks on a re-run.
+- *Changed:* one run is one part, and fork anchors carry the block and quote. Canvas and collapse are not content.
 
-**Round 2, v2.**
-- *Criticism:* splitting answers on demand (`cont`) brought orphaning back. Depth-indexed lanes would cross. Semantic
-  zoom would relayout. Appending needed a selection first.
-- *Changed:* inline block forks replace `cont`. Lanes use subtree extents. Overview keeps the geometry. The end seam and
-  gutter "+" no longer need a selection.
-- *Rejected:* horizontal displacement. The downward sweep already resolves an overlap, and moving units sideways would
-  break the columns people read down.
+**Round 2.**
+- *Criticism:* splitting answers on demand (`cont`) still orphaned forks, depth-indexed lanes would cross, and
+  semantic zoom would relayout.
+- *Changed:* inline block forks replace `cont`, lanes use subtree extents, and the overview keeps the geometry.
+- *Rejected:* horizontal displacement, because it would break the columns people read down.
 
 **Round 3, mock walkthrough.** This was the most useful round.
-- *Criticism:* the demo put an ask between a question and its own answer. Part seams and block seams looked alike. The
-  sweep was unstable. Seed positions depended on the viewer.
-- *Changed:* no seam inside a question and answer pair, and "Fork here" appears on hover. Inline forks fold. The stale
-  mark is a chip, with details in the popover. Connectors are faint unless their unit is active. Overview shows one
-  headline per stack. The sweep repeats until stable, with the edited unit fixed. Seed positions no longer depend on
-  the viewer.
-- *Rejected:* showing the stale chip only to the asker, because readers need to know that an answer did not read a
-  part inserted above it. Also rejected: removing the relations line, because the brief asks for relations to be
-  visible.
+- *Criticism:* the demo put an ask between a question and its own answer, part seams and block seams looked alike,
+  and the overlap sweep was unstable.
+- *Changed:* no seam inside a question and answer pair, "Fork here" appears on hover, and inline forks fold. Overview
+  shows one headline per stack, the sweep repeats until stable, and seed positions no longer depend on the viewer.
+- *Rejected:* removing the relations line from the popover, because the brief asks for relations to be visible.
+
+**Steer from the parent session.** Staleness marks, re-run versions (`revs`) and answer history overlap with
+direction C. The steer was to cut them, keep the rule language small, and put the effort into interjection, forks and
+scale.
+- *Changed:* context is frozen when a part runs, and Re-run is a plain action. `rev`, `revs` and the "changed" mark
+  are removed. The grammar is now `above`, `above N`, `trunk`, `fork`, `none` and `+`. Hovering a fork highlights its
+  anchor in the parent.
